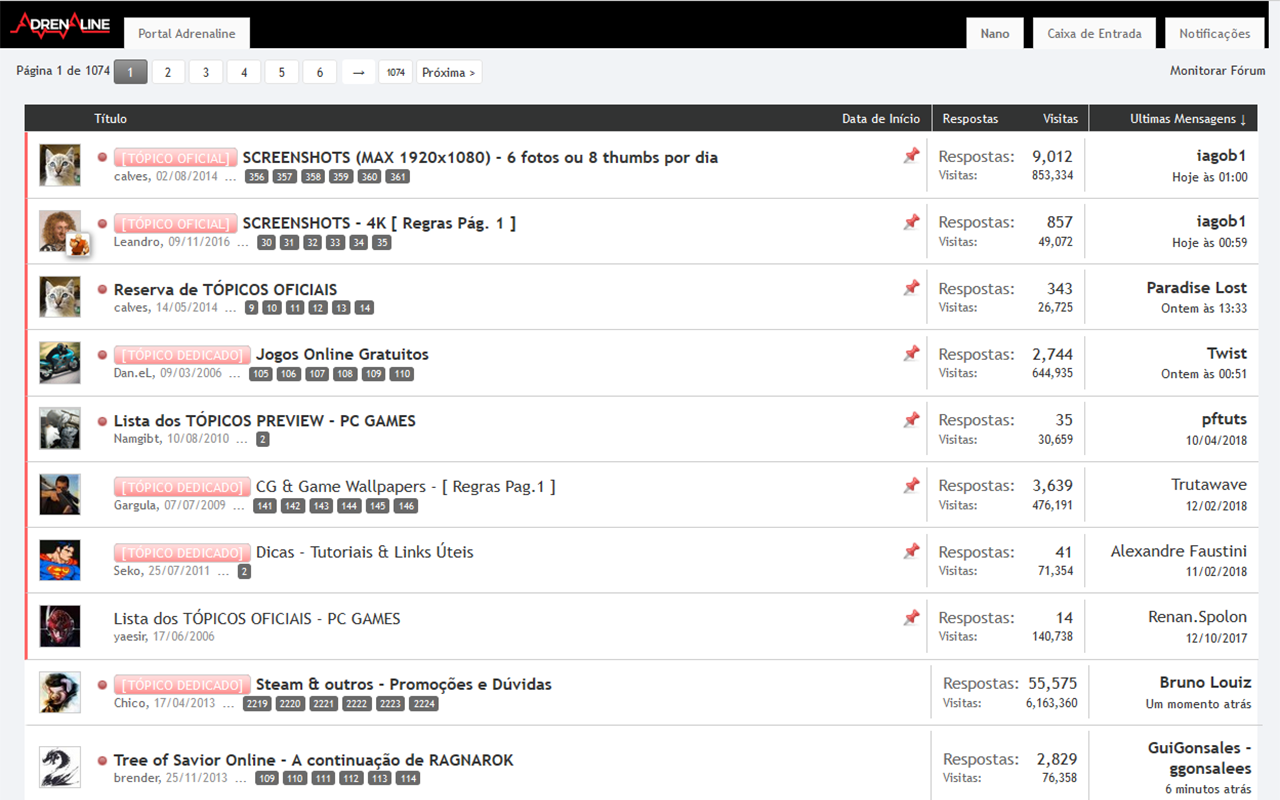
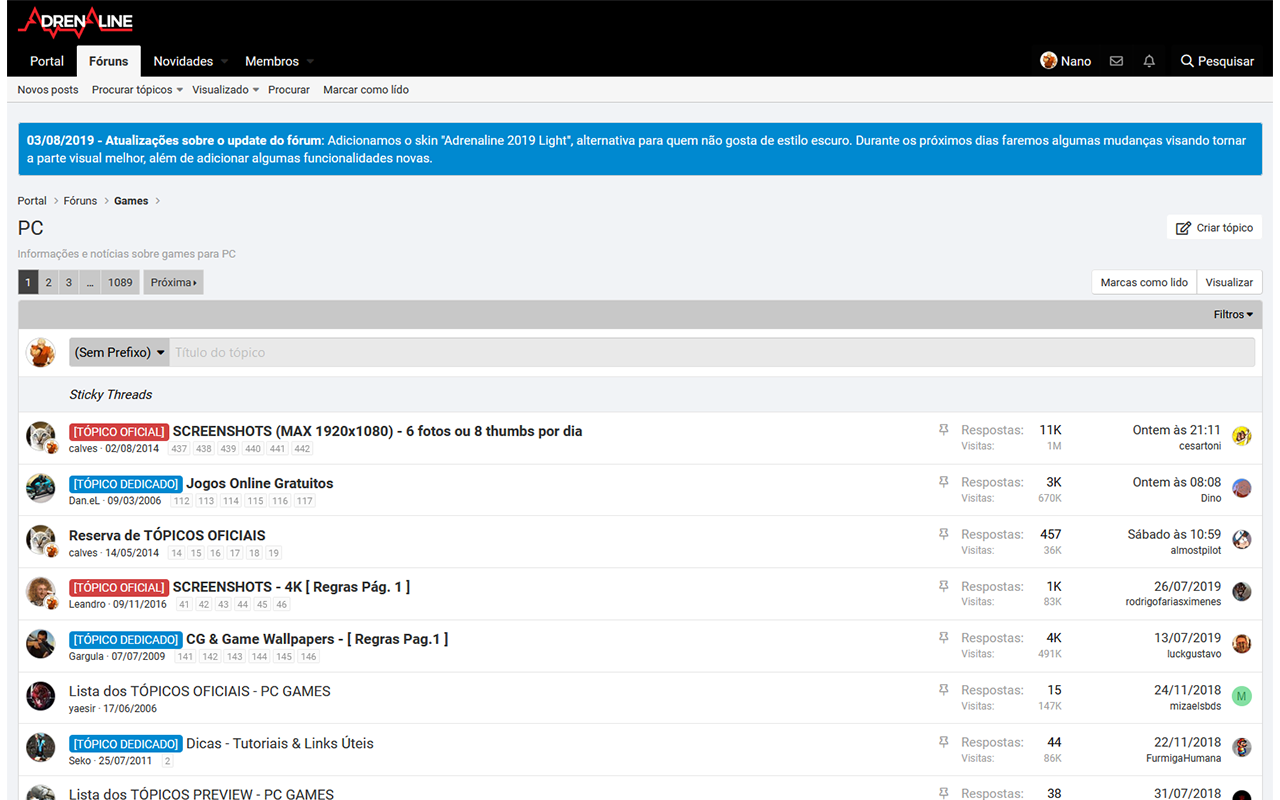
Update to latest Adrenaline update

diff --git a/src/css/light.css b/src/css/light.css
@@ -1,6 +1,7 @@
 /**
  *
- * Custom CSS Light Theme for Adrenaline Forum
+ * Custom CSS Light Theme for Adrenaline Forum (v2.1.3)
+ * v2019-08-06
  * Created by Adriano Caheté (Nano / -M-Nano) <https://www.profolio.com.br/?l=adrenalinelight>
  *
  **/
@@ -10,29 +11,145 @@
   *     - Fix header hover color
   *     - Fix some tag colors
   *     - Fix rss icon in forum home
+  *     - Move to css vars
+*       - Remove old CSS
   */
 
 /* Geral */
 html {
+    font-family: Roboto, 'Segoe UI','Helvetica Neue',Helvetica,Oxygen,Ubuntu,Cantarell,'Fira Sans','Droid Sans',sans-serif;
+}
+
+html,
+.p-pageWrapper {
     background: #f1f3f6;
 }
+
 .body,
 body {
     color: #323333;
     transition: color ease 0.3s;
 }
 
-a:link,
-a:visited {
+a.link {
+    text-decoration: underline;
+}
+
+a.link:hover {
+    text-decoration: none;
+    transition: all ease 0.3s;
+}
+
+a.link,
+a.link:visited {
     color: #323333;
     transition: color ease 0.3s;
 }
 
-a.button {
-    color: initial;
+a.link.link--internal {
+    color: #d24242;
+}
+
+.fr-box.fr-basic .fr-element::selection,
+.fr-view p::selection {
+    color: #fff;
+}
+
+.fr-box.fr-basic .fr-element::-moz-selection,
+.fr-view p::-moz-selection {
+    color: #fff;
 }
 
 /* Header */
+.p-header-logo.p-header-logo--image img {
+    height: 40px;
+}
+
+.p-nav-list .p-navEl-link,
+.p-navgroup-link.p-navgroup-link--user,
+.pageNav-page.pageNav-page--current a {
+    color: #f2f2f2;
+}
+
+/* Fix button texts */
+.p-navgroup-link,
+.button, a.button {
+    color: #f2f2f2 !important;    
+}
+
+/* Fix button texts */
+.button.button--cta,
+a.button.button--cta,
+.button.button--link,
+a.button.button--link {
+    color: #323333 !important;
+}
+
+/* Selected header Item */
+.p-nav-list .p-navEl.is-selected .p-navEl-link {
+    color: #323333;
+}
+
+/* Notices */
+.notice.notice--primary {
+    color: #fff;
+    background: #0089d0;
+}
+
+.notices.notices--block .notice {
+    margin-bottom: 20px;
+    margin-top: 13px;
+}
+
+/* Removing Gradient */
+.block-header,
+.overlay-title,
+.block-filterBar,
+.pageNav-page,
+.pageNav-jump {
+    background: #c8c8c8;
+}
+
+/* Labels */
+/* Dedicado */
+.label.label--dedicado {
+    background: #0089d0;
+    color: #fff;
+}
+
+/* Oficial */
+.label.label--oficial {
+    background: #d24242;
+    color: #fff;
+}
+
+/* Normal Separation */
+.structItemContainer-group.structItemContainer-group--normal-block,
+.structItemContainer-group.structItemContainer-group--sticky-block {
+    background: #f1f3f6;
+    font-style: italic;
+}
+
+.structItemContainer-group.structItemContainer-group--normal-block {
+    margin-top: 20px;
+}
+
+/* Message Footer */
+.message-footer {
+    margin-top: 10px;
+}
+
+.message-footer .message-actionBar.actionBar {
+    padding-left: 15px;
+    padding-right: 15px;
+    height: 45px;
+}
+
+.message .reactionsBar {
+    margin-top: 0;
+}
+
+/* --------- OLD ------------- */
 .navTabs .navTab.selected .tabLinks,
 .selectedTabLinks .tabLinks {
     border-radius: 0;
